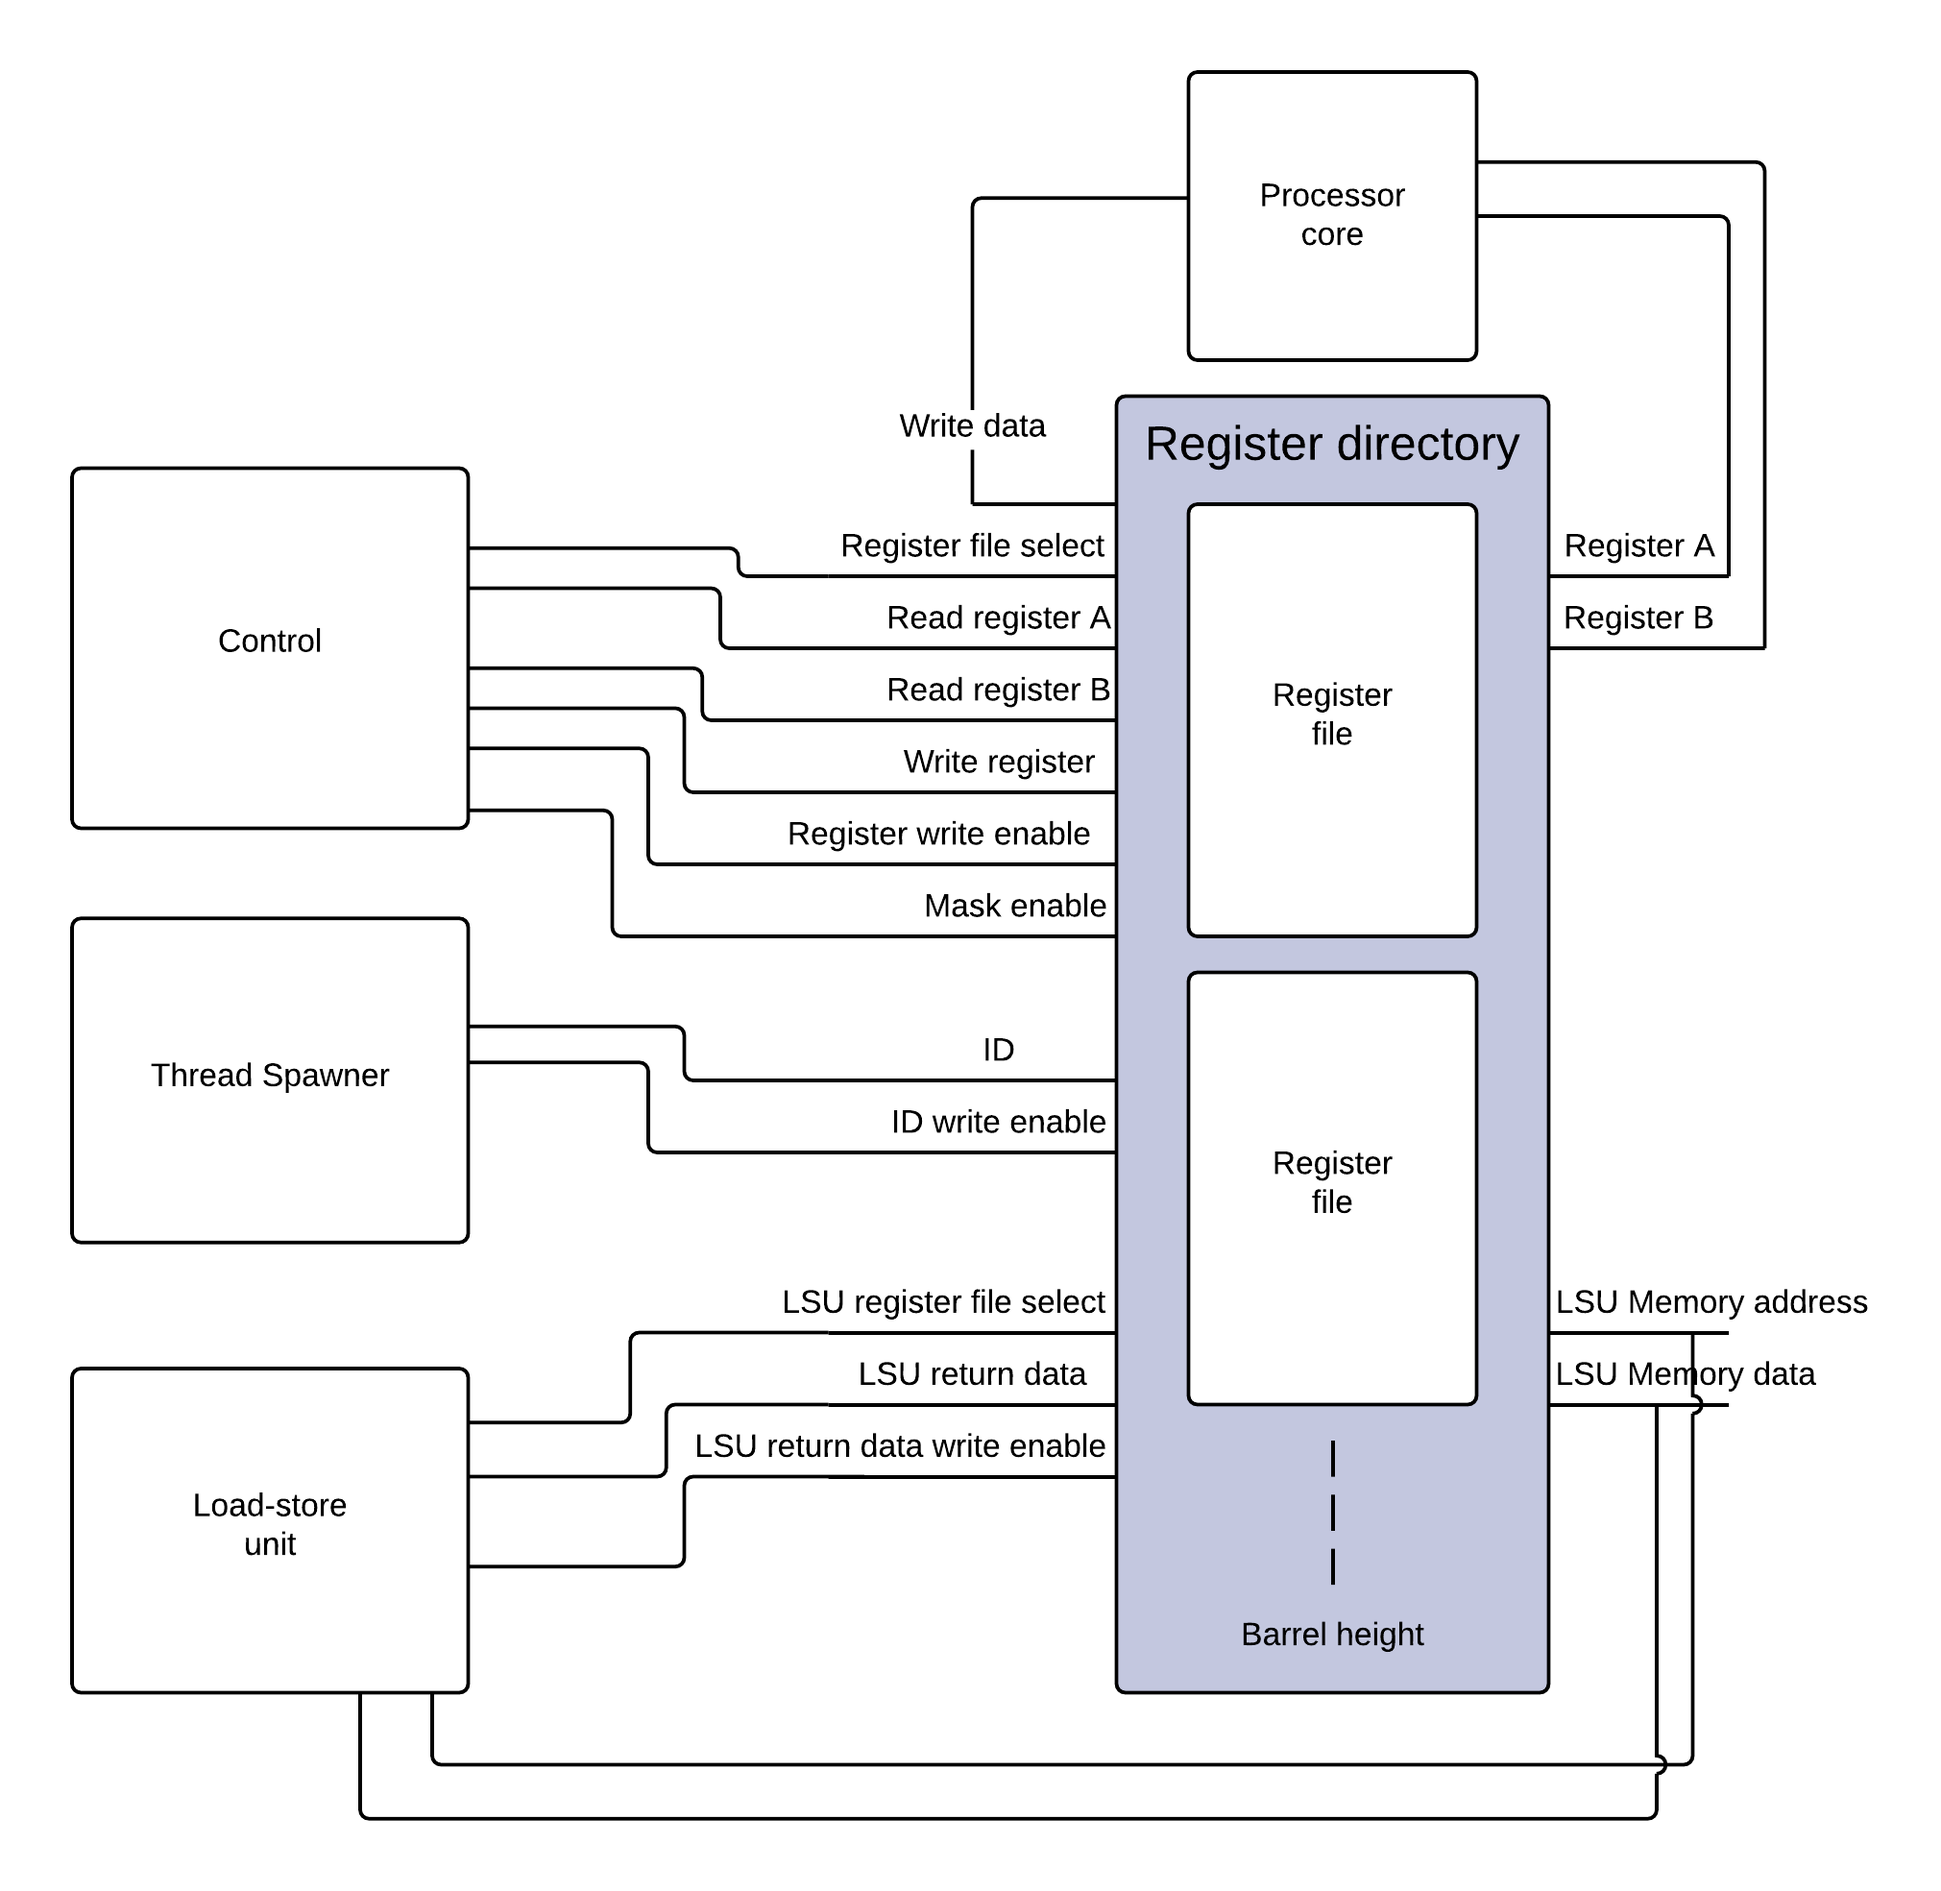
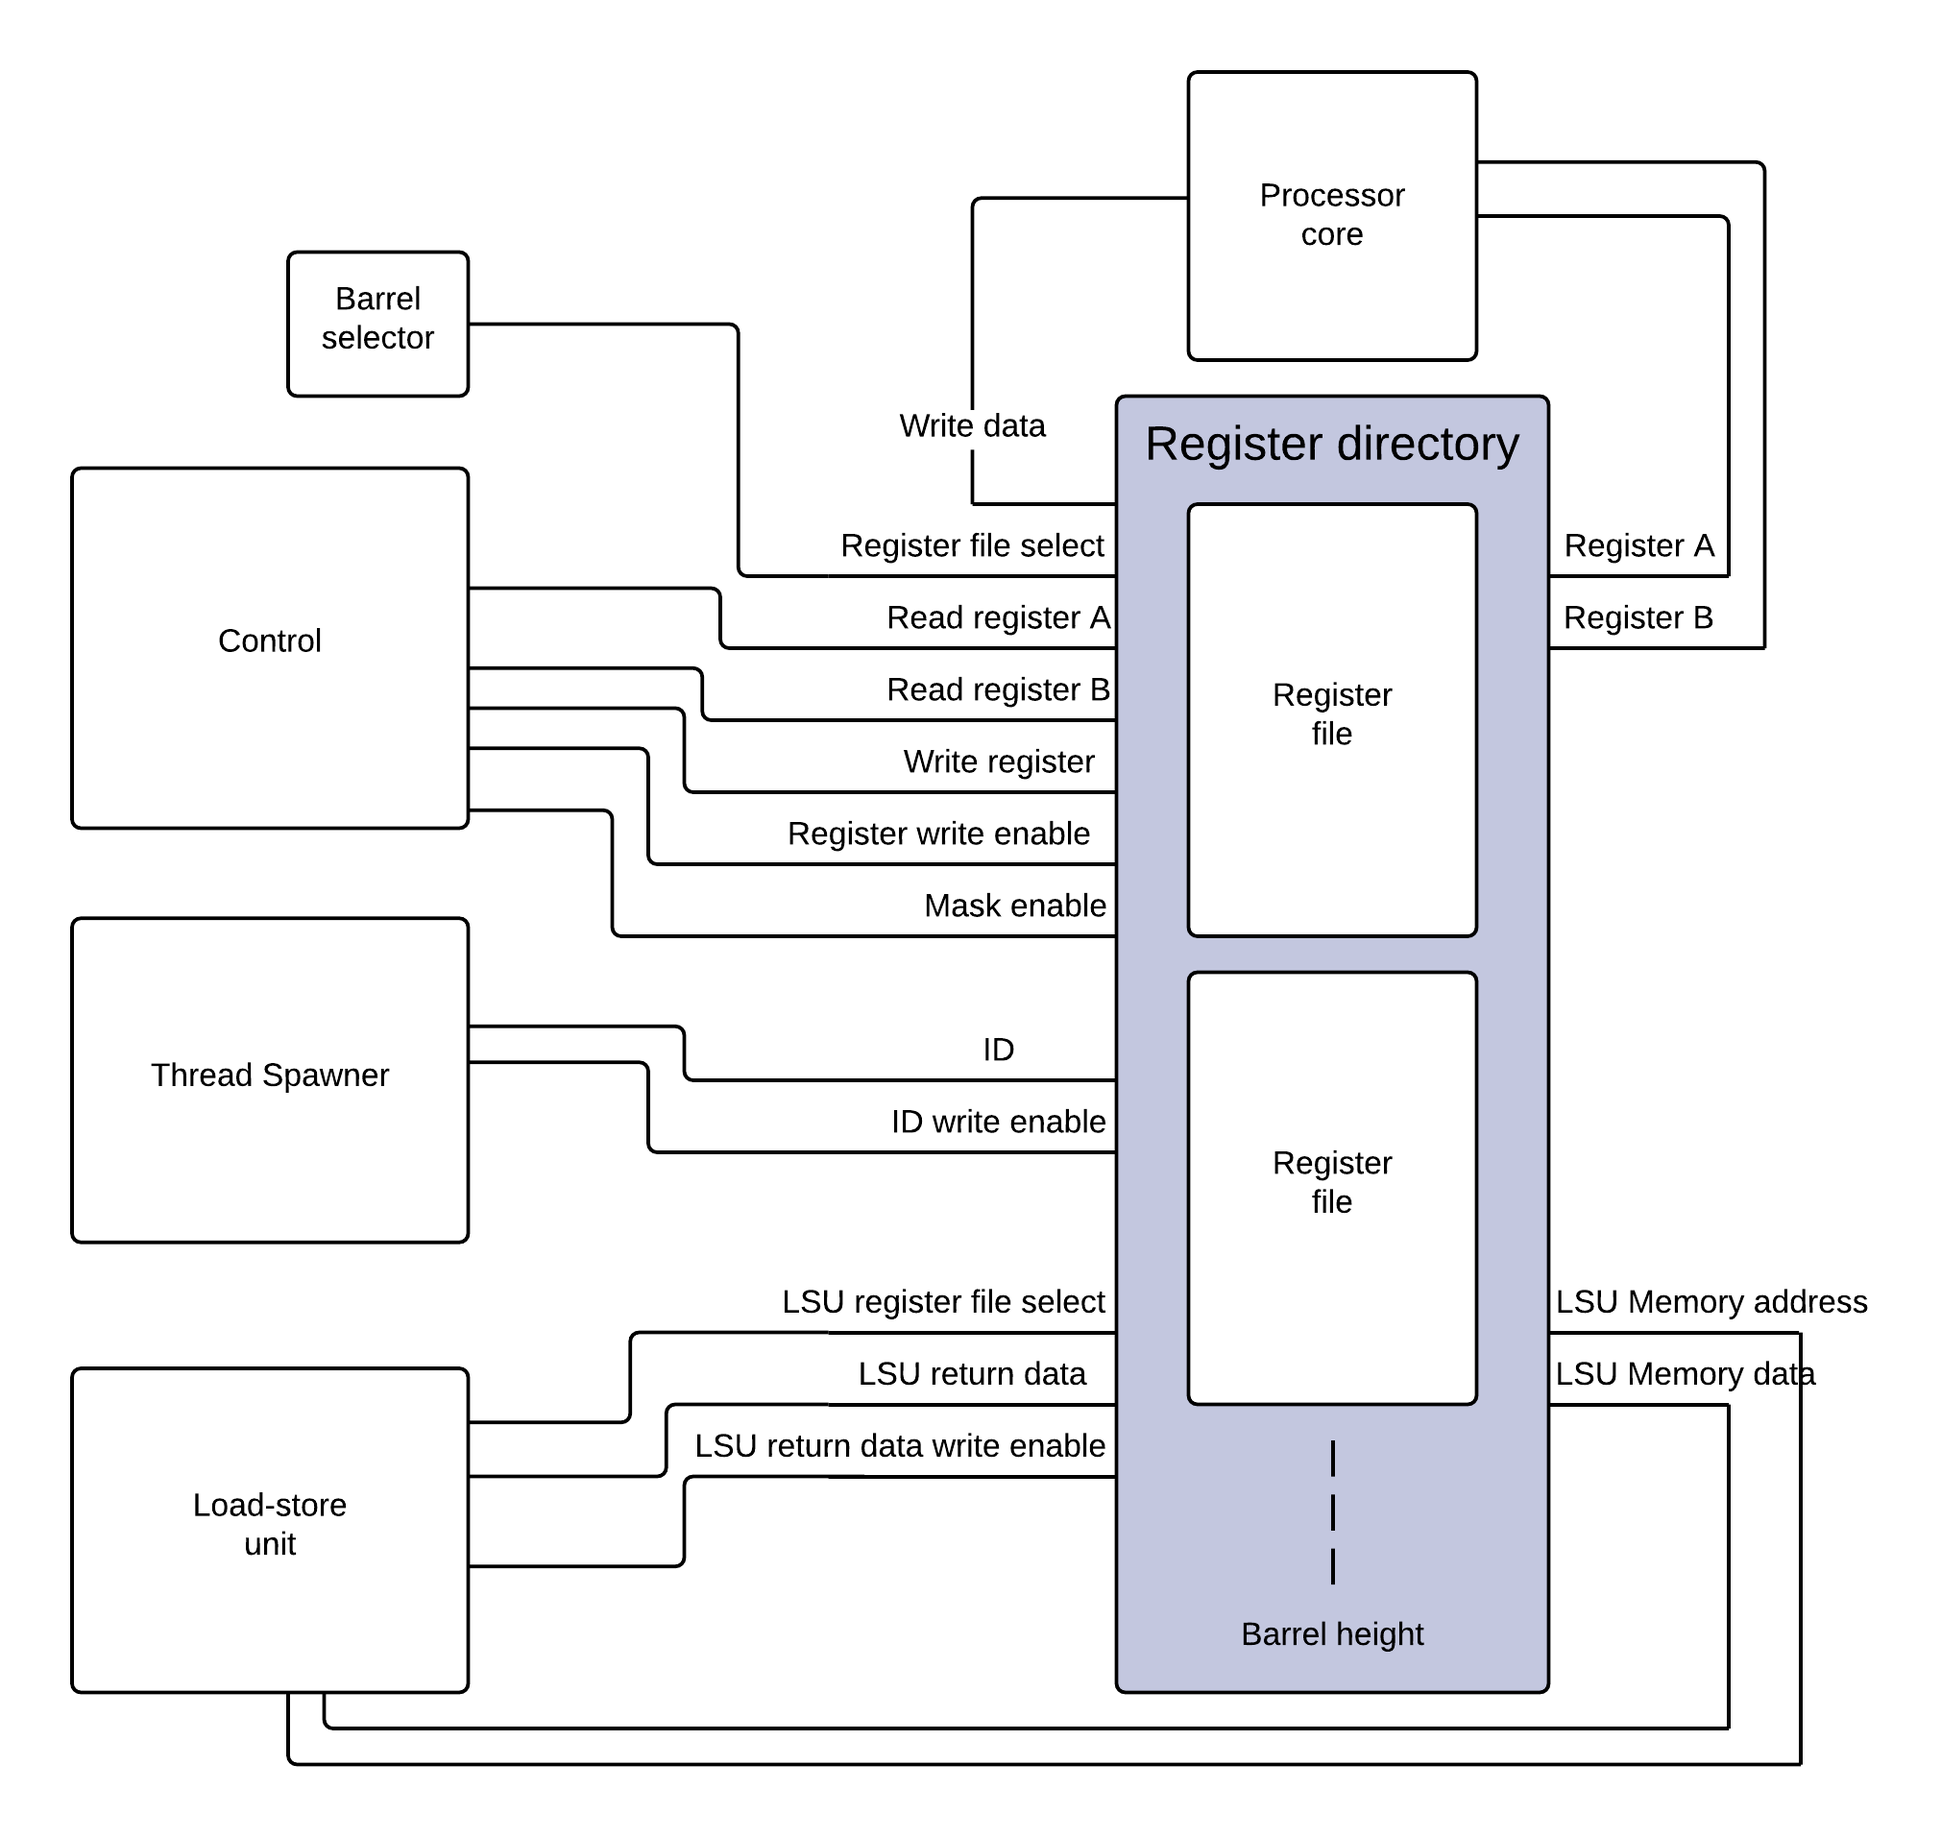
rewrite for barrel select component

diff --git a/report/gpu/gpu.tex b/report/gpu/gpu.tex
@@ -133,7 +133,7 @@ The register files include seven dedicated registers, and nine general purpose r
 \end{figure}
 
 Individual register files are selected by using the \emph{register file select} signal.
-The register file select signal is set by the control unit.
+The register file select signal is set by the barrel select component.
 Within the register directory, the other input signals are routed to the selected register file using the select signal.
 Consequently, from the processor core's point of view, there's just one register file.
 
